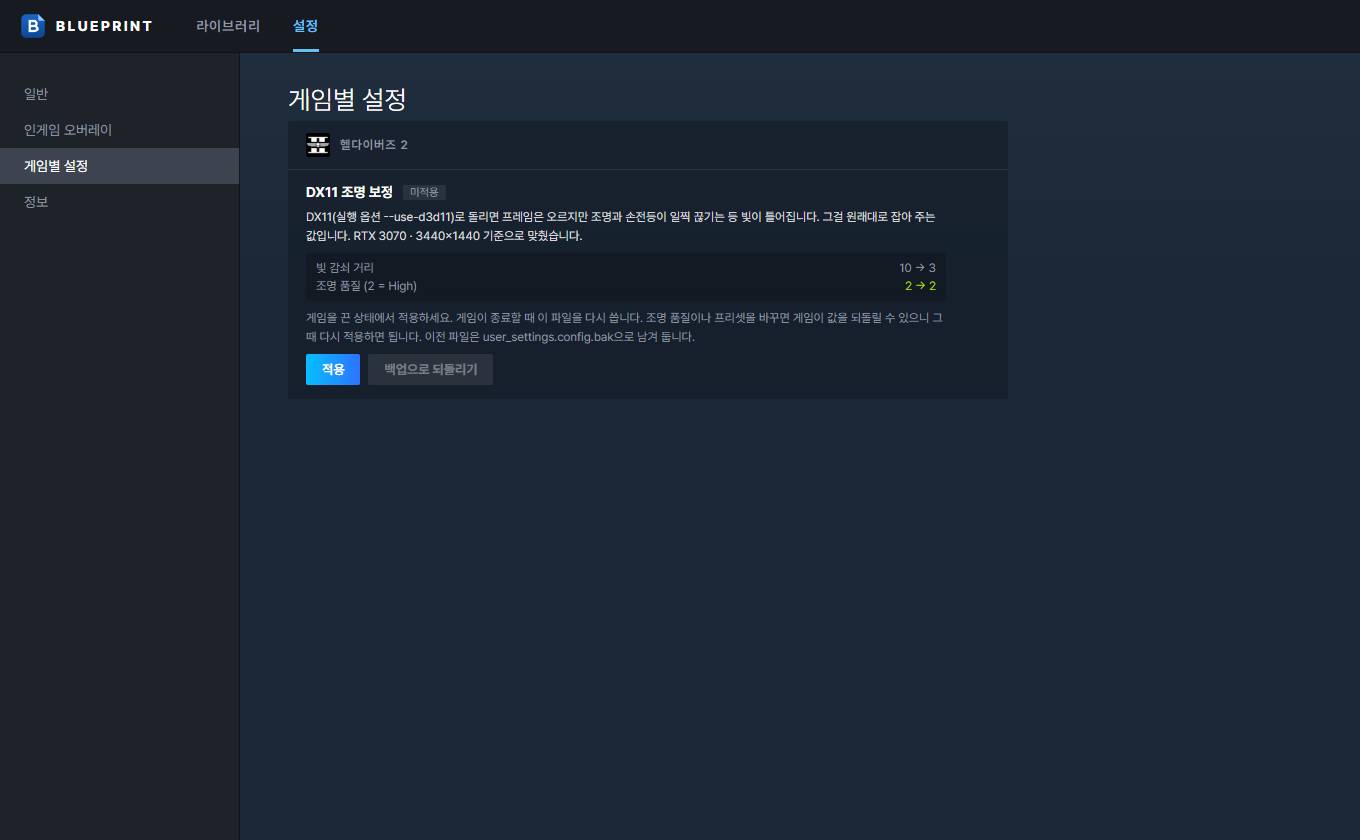
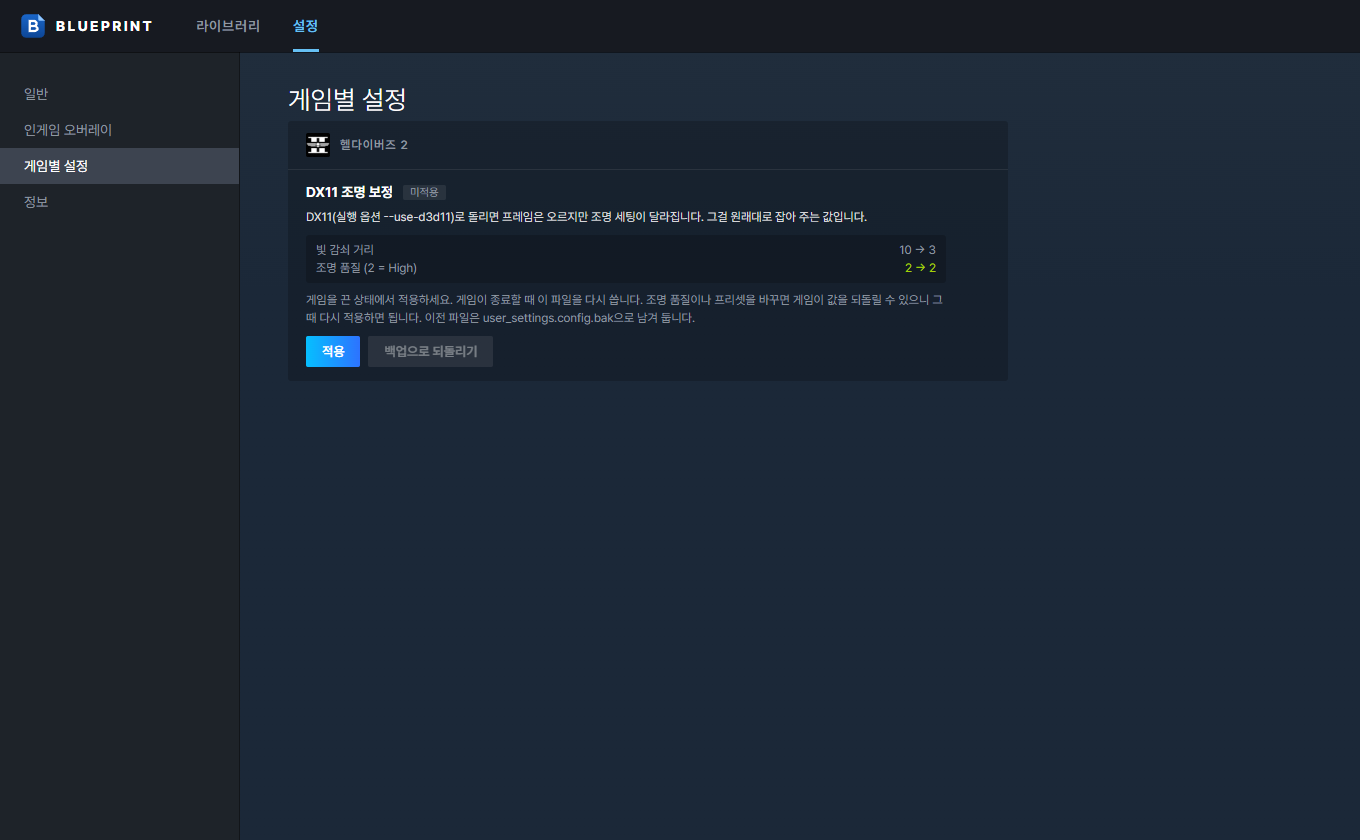
fix: shorten the HD2 lighting fix description
Say only that DX11 changes the lighting settings; drop the hardware the values were tuned on.

Changed region(s): [[0.2162, 0.2786, 0.6794, 0.4643], [0.4324, 0.2476, 0.6794, 0.2786]]

diff --git a/games/helldivers2/src/renderer/i18n.ts b/games/helldivers2/src/renderer/i18n.ts
@@ -44,7 +44,7 @@ const en = {
   graphics: {
     title: 'DX11 lighting fix',
     description:
-      'Running the game on DX11 (launch option --use-d3d11) raises the frame rate, but lights and the flashlight then cut off too early and look wrong. This puts them back. Values tuned on an RTX 3070 at 3440x1440.',
+      'Running the game on DX11 (launch option --use-d3d11) raises the frame rate, but the lighting settings change. This sets them back.',
     falloff: 'Light falloff distance',
     lighting: 'Lighting quality (2 = High)',
     notes: 'Close the game first: it rewrites this file when it exits. The game may reset the light value when you change lighting quality or a preset; apply again then. The previous file is kept as user_settings.config.bak.',
@@ -258,7 +258,7 @@ const ko: Hd2Messages = {
   graphics: {
     title: 'DX11 조명 보정',
     description:
-      'DX11(실행 옵션 --use-d3d11)로 돌리면 프레임은 오르지만 조명과 손전등이 일찍 끊기는 등 빛이 틀어집니다. 그걸 원래대로 잡아 주는 값입니다. RTX 3070 · 3440x1440 기준으로 맞췄습니다.',
+      'DX11(실행 옵션 --use-d3d11)로 돌리면 프레임은 오르지만 조명 세팅이 달라집니다. 그걸 원래대로 잡아 주는 값입니다.',
     falloff: '빛 감쇠 거리',
     lighting: '조명 품질 (2 = High)',
     notes: '게임을 끈 상태에서 적용하세요. 게임이 종료할 때 이 파일을 다시 씁니다. 조명 품질이나 프리셋을 바꾸면 게임이 값을 되돌릴 수 있으니 그때 다시 적용하면 됩니다. 이전 파일은 user_settings.config.bak으로 남겨 둡니다.',
